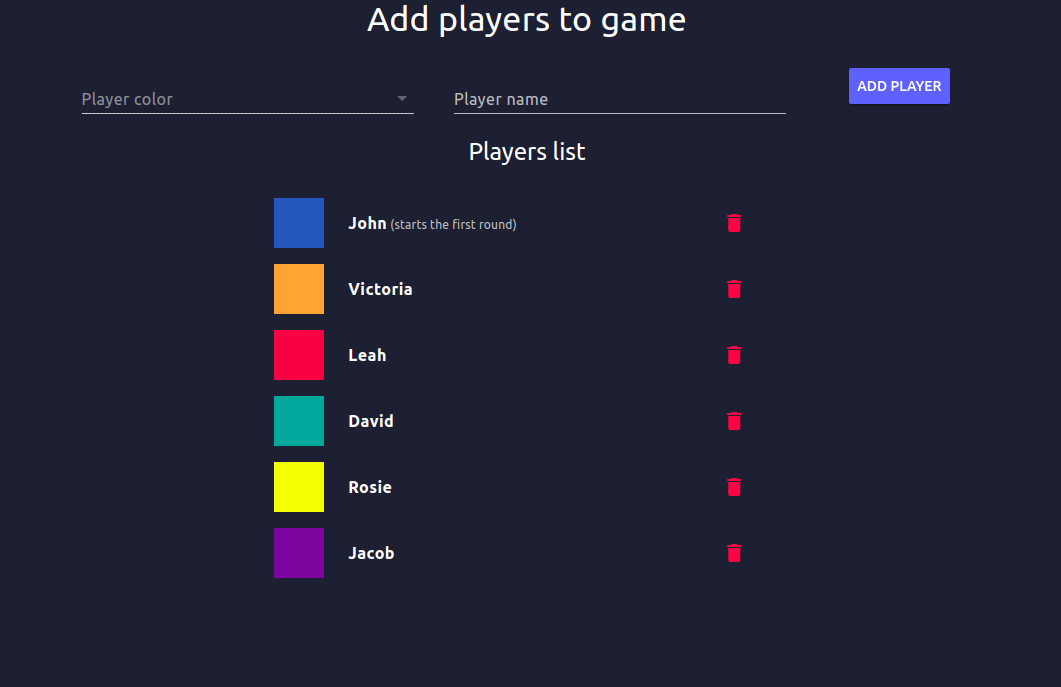
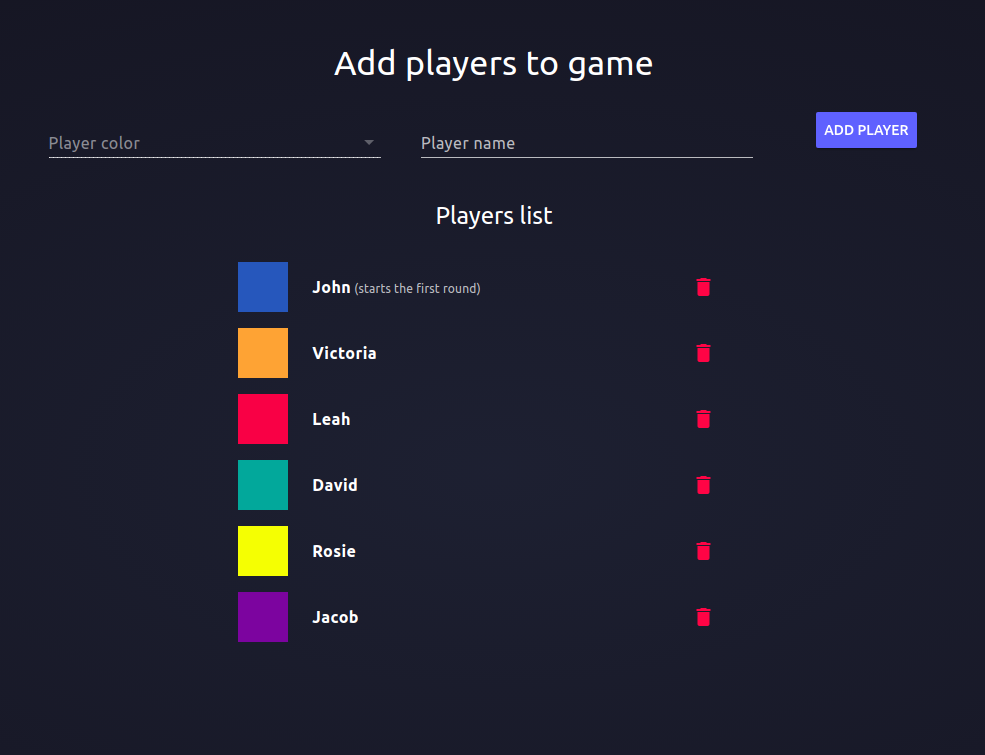
readme links fix, step images updated, 404 page added, background style change

diff --git a/src/views/NotFound/404.vue b/src/views/NotFound/404.vue
@@ -1,0 +1,37 @@
+<template>
+    <div class="NotFound__Container md-layout md-gutter md-alignment-center-center">
+        <h1>404</h1>
+
+        <p>
+            It is so empty in here...
+            Maybe this page is hiding out in quarantine?
+        </p>
+
+        <md-button @click="handleGoHome">
+            Go home
+        </md-button>
+    </div>
+</template>
+
+<script>
+export default {
+    name: 'NotFound',
+    metaInfo: {
+        title: '404 Not Found',
+    },
+    created() {
+        if (this.$router.name !== 'notFound404') {
+            this.$router.push({ name: 'notFound404' });
+        }
+    },
+    methods: {
+        handleGoHome() {
+            this.$router.push({ name: 'homepage' });
+        },
+    },
+};
+</script>
+
+<style lang="scss" scoped>
+    @import './styles.scss';
+</style>

diff --git a/src/router/index.ts b/src/router/index.ts
@@ -5,6 +5,7 @@ import Game from '@/views/Game/index.vue';
 import PlayersSetup from '@/views/Players/Setup/index.vue';
 import GameBoard from '@/views/Board/index.vue';
 import GameEnd from '@/views/Game/End/index.vue';
+import NotFound from '@/views/NotFound/404.vue';
 
 Vue.use(VueRouter);
 
@@ -35,6 +36,16 @@ const routes: Array<RouteConfig> = [
                 component: GameEnd,
             },
         ],
+    },
+    {
+        path: '/404',
+        name: 'notFound404',
+        component: NotFound,
+    },
+    {
+        path: '*',
+        name: 'notFound',
+        component: NotFound,
     },
 ];
 

diff --git a/src/views/Game/End/index.vue b/src/views/Game/End/index.vue
@@ -48,7 +48,11 @@ import boardModule from '@/modules/Board';
 import { PlayerType } from '@/store/types';
 import party from 'party-js';
 
-@Component
+@Component({
+    metaInfo: {
+        title: 'Game finished',
+    },
+})
 export default class GameEnd extends Vue {
     @Get(playerModule) private players!: PlayerType[];
 

diff --git a/src/App.vue b/src/App.vue
@@ -71,6 +71,8 @@ export default class App extends Vue {
     }
 
     .App__GameLayout {
+        background:
+            radial-gradient(ellipse at center, $colorDark 0%, $colorDarker 100%);
         padding-bottom: 72px;
         flex-grow: 1;
         flex-direction: column;

diff --git a/src/views/Players/Setup/index.vue b/src/views/Players/Setup/index.vue
@@ -35,6 +35,9 @@ import PlayersSetupList from './list.vue';
 import PlayersSetupDialog from './dialog.vue';
 
 @Component({
+    metaInfo: {
+        title: 'Players setup',
+    },
     components: {
         PlayersSetupForm,
         PlayersSetupList,

diff --git a/src/views/Board/index.vue b/src/views/Board/index.vue
@@ -68,6 +68,9 @@ import GameBoard from './board.vue';
 import ResultsDialog from './resultsDialog.vue';
 
 @Component({
+    metaInfo: {
+        title: 'Game in progress',
+    },
     components: {
         GameBoard,
         ResultsDialog,

diff --git a/src/views/NotFound/styles.scss b/src/views/NotFound/styles.scss
@@ -1,0 +1,10 @@
+.NotFound__Container {
+    h1 {
+        text-shadow: 5px 5px $colorDark;
+        font-weight: 700;
+    }
+    
+    p {
+        color: $colorLight;
+    }
+}

diff --git a/README.md b/README.md
@@ -6,9 +6,9 @@ iKNOW is a board game with a touch more interaction. It wraps knowledge, skill a
 
 This online game points calculator was made to make your iKNOW board game playing experience much easier and faster! Forget about wasting minutes after every round to correctly calculate the points of each player. With this easy to use calculator you will be able to save playing time (which means you can play more matches), calculate each rounds outcome and track everyones score! When one of the players collects points needed to win the game, it will automatically end, announcing the winner and showing the final results.
 
-So what are you waiting for? Pick a friend who will administrate the calculator, set it up and [start](http://iknow.martynaskasp.lt/game/players) the game.
+So what are you waiting for? Pick a friend who will administrate the calculator, set it up and [start the game](http://iknow.martynaskasp.lt/game/players).
 
-*If you are not familiar with the iKNOW board game instructions you should read the original instructions [here](http://www.tactic.net/iknow/eng/miten_pelaan.php).*
+*If you are not familiar with the iKNOW board game you should read the original [instructions](http://www.tactic.net/iknow/eng/miten_pelaan.php) first.*
 
 ## How to use it?
 1. **Players setup**. 
